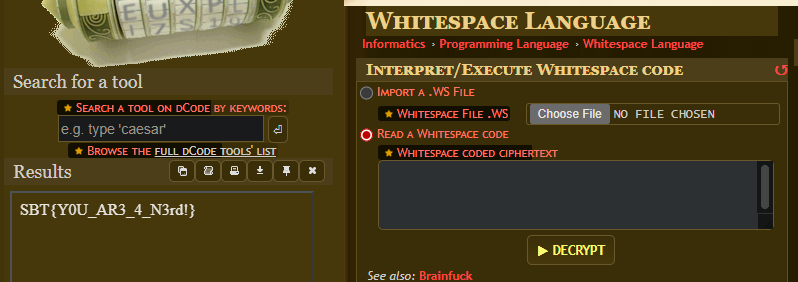
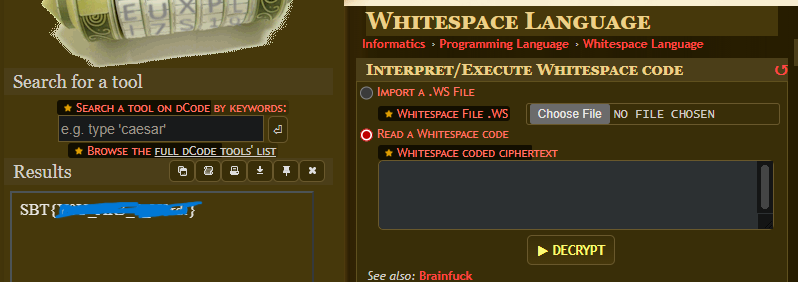
make it more clear

Changed region(s): [[0.0602, 0.7092, 0.2707, 0.7943]]

diff --git a/D-Crypt/readme.md b/D-Crypt/readme.md
@@ -134,7 +134,10 @@ Then i tried it with Base64 Encode to get infomation.
 ```
 </details>
 
-It was a blank text, but I recognized it from a previous CTF challenge. In that challenge, the clear text had been transformed into whitespace and tab characters, which was intended to confuse the player. So i just decode that blank text to get hidden text behind it.
+It was a blank text, but I recognized it from a previous CTF challenge that I have played. In that challenge, the clear text had been transformed into whitespace and tab characters, which was intended to confuse the player. If you use IDE like VSCode, you will see these characters more clearly.
+![alt text](./img/img14.png)
+
+So i just decode that blank text to get hidden text behind it.
 
 ![alt text](./img/img13.png)
 
@@ -144,6 +147,6 @@ Yeah, i finally got the flag.
 <summary>The flag</summary>
 
 ```
-SBT{Y0U_AR3_4_N3rd!}
+Try it yourself
 ```
 </details>
